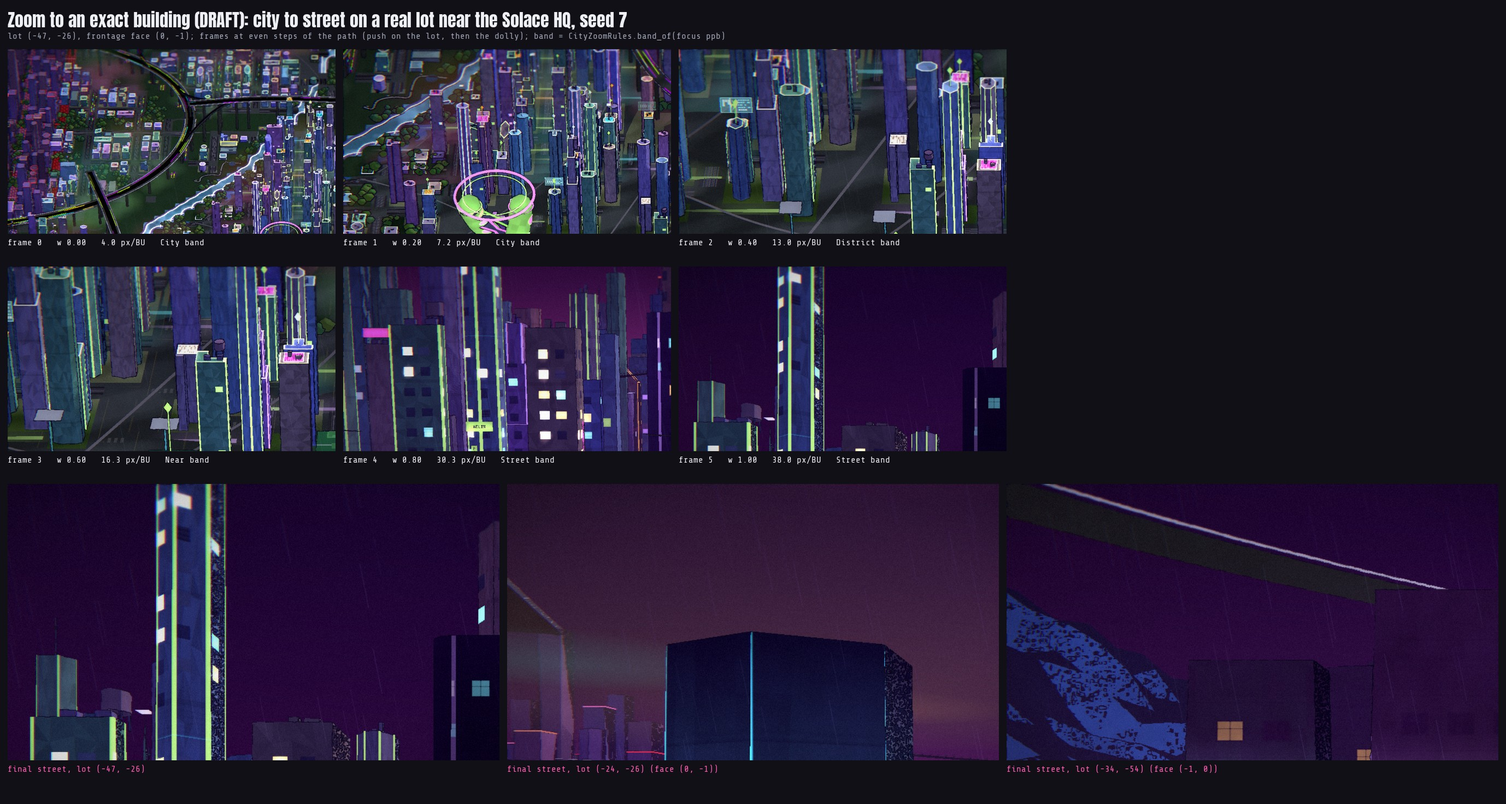
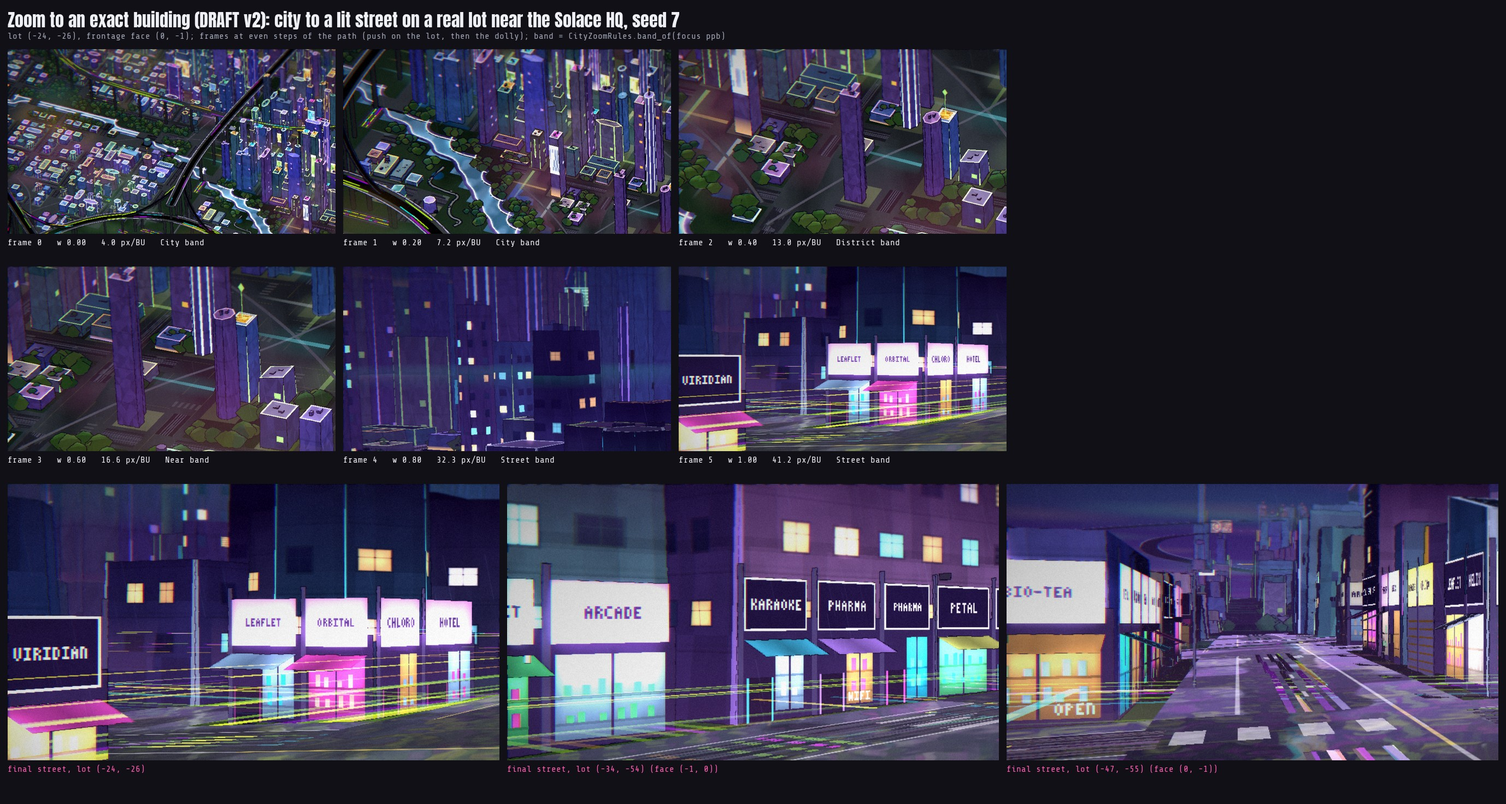
A-143: zoom-to-building lit final street (75ae9e320); strip v2

diff --git a/docs/concepts/HANDOFF_PACKAGE/MAILBOX.md b/docs/concepts/HANDOFF_PACKAGE/MAILBOX.md
@@ -1207,3 +1207,27 @@ art/street-plate-match or s8f, so the withdrawn staging was never in the game's 
     6. The set 7 strip glyphs are unreviewed.
     7. Chain tokens reuse device glyphs.
     8. B has no class pictures; the old busts are candidates.
+
+### A-143 · 2026-11-16 · re B-104/A-142 · zoom-to-building: lit final street · READY (look DRAFT v2) + FYI
+- **READY `art/zoom-to-building` 75ae9e320** (art clone): 2 more commits on c35a3e9d0. Rebase it on RC1b when that lands.
+- **The final street is now a lit shop row on the real street.**
+  - `CityZoomDress` / `CityStreetPlan` dress the real prisms: bays, fascia text, awnings, pavement, lamps, signs, and
+    a wet road on real street lots.
+  - `CityZoomTo.detail_at` rises steadily along the path. The old per-zoom layers stay off.
+- **The camera stands in the real street.** It sits 0.75 of the street's depth out from the face and up to 5 lots back,
+  looking at most 68° off the face's normal. Both street walls are kept out of the near-block melt, and
+  `zr_stage_rows` is 0 for B.
+- **Light:** `zr_b_street_light` sets fog max 0.45, fog distance 180, black point (0.05, 0.45), plus its own fog and
+  sky colours.
+- **Shared change, check the A street:** roof signs now fade in across the Near band (whole by 28 px/BU, was 16).
+- **Open items for build:**
+  - The rendered lens shift is about 2.5× what `CityIsoCamera.project` computes. Art tuned `zr_to_horizon` against
+    captures and did not change the projection.
+  - `BStreetStage`'s own netrun camera is still the old straight-on one.
+  - The picker still needs the drawn-building predicate: lot (-47,-26) renders as a garden pod.
+- **Run:** test_city_zoom_to 12, plus test_b_street_stage, test_b_screens_flow, test_city_zoom_stage,
+  test_city_zoom_run, test_visual_lint_static, test_anim_r6_rules and test_suite_integrity: 86 tests in all, all green.
+- **Strip:** `docs/concepts/zoom_to_building/zoom_strip.jpg`; the v1 strip is `zoom_strip_v1.jpg`.
+- **Process slip:** an art agent's `-gtest` on a file not named `test_*` started the whole GUT suite 3 times. Each
+  run was killed by art, on the art clone only.
+- **Next:** transitions v5 per B-105.
